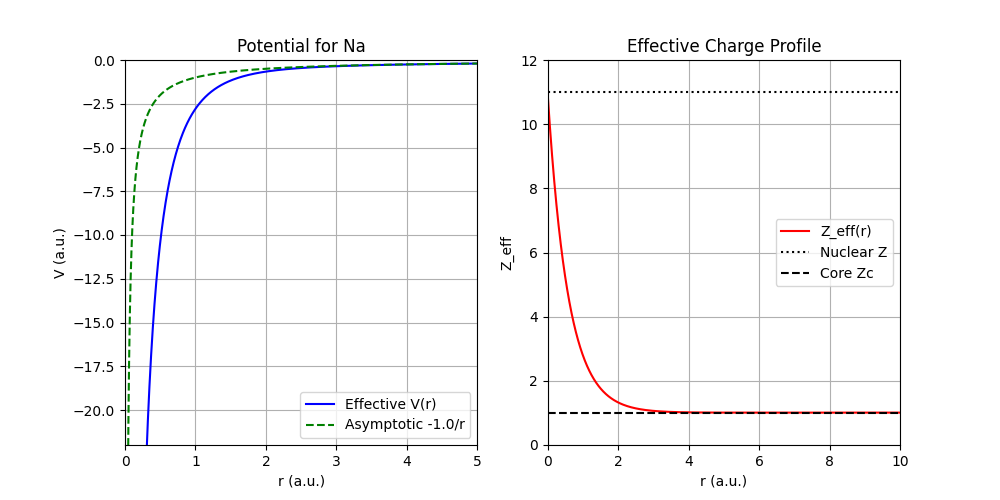
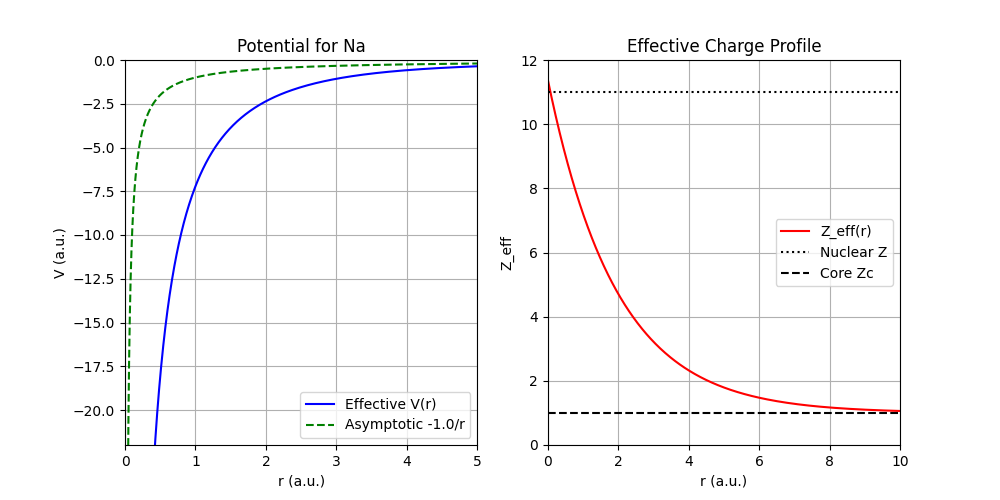
Edit_42

diff --git a/fit_potential.py b/fit_potential.py
@@ -66,20 +66,54 @@ def solve_binding_energy(a_params, Zc, n_target, l_target, grid):
     except Exception:
         return 10.0 # Interaction failure penalty
 
-def cost_function(a_params, Zc, n_target, l_target, target_E_au, grid):
+def cost_function(a_params, Zc, n_target, l_target, target_E_au, grid, Z_nuclear=None):
     """
-    Cost = |E_calc - E_target|
+    Cost = |E_calc - E_target| + physics penalties
     """
+    a1, a2, a3, a4, a5, a6 = a_params
+    
     # Enforce constraints via penalty
-    # Decay rates a2, a4, a6 must be positive > 0.1 to be physical
-    a2, a4, a6 = a_params[1], a_params[3], a_params[5]
-    if a2 < 0.1 or a4 < 0.1 or a6 < 0.1:
+    # Decay rates a2, a4, a6 must be positive > 0.01 to be physical
+    if a2 < 0.01 or a4 < 0.01 or a6 < 0.01:
         return 100.0 + abs(a2)+abs(a4)+abs(a6)
+    
+    # Physics constraint: Z_eff(0) = Zc + a1 + a5 should be close to Z_nuclear
+    if Z_nuclear is not None:
+        z_eff_0 = Zc + a1 + a5
+        if abs(z_eff_0 - Z_nuclear) > 1.0:
+            return 50.0 + abs(z_eff_0 - Z_nuclear)
 
     E_calc = solve_binding_energy(a_params, Zc, n_target, l_target, grid)
     
     diff = abs(E_calc - target_E_au)
     return diff
+
+
+def verify_fit(name, Z, Zc, n, l, ip_ev, a_params):
+    """
+    Verify the fitted parameters by computing bound state energy.
+    Returns (success, calculated_E_eV, expected_E_eV, diff_eV)
+    """
+    from grid import make_r_grid, au_to_ev
+    from potential_core import CorePotentialParams, V_core_on_grid
+    from bound_states import solve_bound_states
+    
+    grid = make_r_grid(r_min=1e-4, r_max=200.0, n_points=2000)
+    params = CorePotentialParams(Zc, *a_params)
+    V = V_core_on_grid(grid, params)
+    
+    states = solve_bound_states(grid, V, l=l, n_states_max=n+2)
+    target_n_idx = n - l
+    
+    for s in states:
+        if s.n_index == target_n_idx:
+            calc_E_eV = s.energy_au * 27.211386
+            expected_E_eV = -ip_ev
+            diff = abs(calc_E_eV - expected_E_eV)
+            success = diff < 0.1  # Within 0.1 eV is success
+            return success, calc_E_eV, expected_E_eV, diff
+    
+    return False, None, -ip_ev, None
 
 import json
 import os
@@ -269,13 +303,32 @@ def main():
             x0 = [Z-Zc, 0.8*Z, 0.0, 1.0, 0.0, 1.0]
 
         t0 = time.time()
-        res = scipy.optimize.minimize(
-            cost_function, 
-            x0, 
-            args=(Zc, n, l, target_E_au, grid),
-            method='Nelder-Mead',
-            options={'maxiter': 500, 'xatol': 1e-5}
-        )
+        
+        # Multi-start optimization for robustness
+        best_result = None
+        best_cost = float('inf')
+        
+        # Try multiple initial guesses
+        initial_guesses = [
+            x0,  # Default guess
+            [Z-Zc, Z*0.5, 0.0, 1.0, 0.0, 1.0],  # Alternative 1
+            [Z-Zc, Z, 0.001, 0.5, 0.001, 2.0],  # Alternative 2
+        ]
+        
+        for i, guess in enumerate(initial_guesses):
+            print(f"  Trying initial guess {i+1}/{len(initial_guesses)}...")
+            res = scipy.optimize.minimize(
+                cost_function, 
+                guess, 
+                args=(Zc, n, l, target_E_au, grid, Z),
+                method='Nelder-Mead',
+                options={'maxiter': 2000, 'xatol': 1e-6, 'fatol': 1e-8}
+            )
+            if res.fun < best_cost:
+                best_cost = res.fun
+                best_result = res
+        
+        res = best_result
         dt = time.time() - t0
         
         print(f"\nOptimization Finished in {dt:.2f}s.")
@@ -297,6 +350,33 @@ def main():
     print(f"\nCalculated Binding E = {E_final_eV:.4f} eV")
     print(f"Reference Binding E  = {E_exp_eV if E_exp_eV < 0 else -E_exp_eV:.4f} eV")
     print(f"Diff                 = {abs(abs(E_final_eV) - abs(E_exp_eV)):.4f} eV")
+    
+    # --- AUTOMATIC DIAGNOSTIC VERIFICATION ---
+    print("\n" + "="*50)
+    print("AUTOMATIC VERIFICATION")
+    print("="*50)
+    success, calc_E, exp_E, diff = verify_fit(name, Z, Zc, n, l, abs(E_exp_eV), best_params)
+    
+    if success:
+        print(f"[SUCCESS] Fitted parameters verified!")
+        print(f"  Calculated: {calc_E:.4f} eV")
+        print(f"  Expected:   {exp_E:.4f} eV")
+        print(f"  Difference: {diff:.4f} eV (< 0.1 eV threshold)")
+    else:
+        if diff is not None:
+            print(f"[WARNING] Fitting not fully successful!")
+            print(f"  Calculated: {calc_E:.4f} eV")
+            print(f"  Expected:   {exp_E:.4f} eV")
+            print(f"  Difference: {diff:.4f} eV (> 0.1 eV threshold)")
+            print("\n  Consider:")
+            print("  1. Running with more iterations (modify maxiter)")
+            print("  2. Trying different initial guesses")
+            print("  3. Checking if target state (n,l) is correct")
+        else:
+            print(f"[ERROR] Could not find target bound state!")
+            print(f"  Expected energy: {exp_E:.4f} eV")
+    print("="*50)
+
     
     # --- PHYSICALITY CHECK & PLOTTING ---
     try:

diff --git a/diag_atoms.py b/diag_atoms.py
@@ -1,0 +1,77 @@
+"""
+Quick diagnostic script to compare H and Li potential and bound states.
+"""
+import numpy as np
+from grid import make_r_grid
+from potential_core import V_core_on_grid
+from bound_states import solve_bound_states
+import atom_library
+
+def diagnose_atom(name: str):
+    print(f"\n{'='*50}")
+    print(f"DIAGNOSTICS: {name}")
+    print('='*50)
+    
+    atom = atom_library.get_atom(name)
+    print(f"Z={atom.Z}, Zc={atom.core_params.Zc}")
+    print(f"Target state: n={atom.default_n}, l={atom.default_l}")
+    print(f"IP (eV): {atom.ip_ev}")
+    
+    # Check a_params
+    p = atom.core_params
+    print(f"\nCore params: a1={p.a1:.4f}, a2={p.a2:.4f}, a3={p.a3:.4f}")
+    print(f"             a4={p.a4:.4f}, a5={p.a5:.4f}, a6={p.a6:.4f}")
+    
+    # Compute Z_eff at r=0
+    # S(0) = a1*exp(0) + a3*0*exp(0) + a5*exp(0) = a1 + a5
+    z_eff_0 = p.Zc + p.a1 + p.a5
+    print(f"\nZ_eff(r→0) ≈ {z_eff_0:.2f} (should be ~{atom.Z})")
+    print(f"Z_eff(r→∞) = Zc = {p.Zc}")
+    
+    # Create grid and potential
+    grid = make_r_grid(r_min=1e-4, r_max=200.0, n_points=2000)
+    V = V_core_on_grid(grid, p)
+    
+    # Check potential values
+    print(f"\nPotential check:")
+    print(f"  V(r=0.01) = {np.interp(0.01, grid.r, V):.4f} a.u.")
+    print(f"  V(r=1.0)  = {np.interp(1.0, grid.r, V):.4f} a.u.")
+    print(f"  V(r=10.0) = {np.interp(10.0, grid.r, V):.4f} a.u.")
+    
+    # Actual Z_eff = -r*V
+    r_test = grid.r[grid.r > 0.001]
+    V_test = V[grid.r > 0.001]
+    z_eff = -r_test * V_test
+    print(f"  Z_eff(r=0.01) = {np.interp(0.01, r_test, z_eff):.2f}")
+    print(f"  Z_eff(r=1.0)  = {np.interp(1.0, r_test, z_eff):.2f}")
+    print(f"  Z_eff(r=10.0) = {np.interp(10.0, r_test, z_eff):.2f}")
+    
+    # Solve bound states
+    l = atom.default_l
+    states = solve_bound_states(grid, V, l=l, n_states_max=5)
+    
+    print(f"\nBound states for l={l}:")
+    for s in states:
+        E_eV = s.energy_au * 27.211386
+        print(f"  n_index={s.n_index}: E = {E_eV:.4f} eV ({s.energy_au:.4f} a.u.)")
+    
+    # Expected valence state
+    target_n_idx = atom.default_n - atom.default_l
+    expected_E_eV = -atom.ip_ev
+    
+    for s in states:
+        if s.n_index == target_n_idx:
+            calc_E_eV = s.energy_au * 27.211386
+            diff = abs(calc_E_eV - expected_E_eV)
+            print(f"\n  Valence state (n_idx={target_n_idx}):")
+            print(f"    Calculated: {calc_E_eV:.4f} eV")
+            print(f"    Expected:   {expected_E_eV:.4f} eV")
+            print(f"    Diff:       {diff:.4f} eV")
+            break
+
+if __name__ == "__main__":
+    diagnose_atom("H")
+    diagnose_atom("Li")
+    diagnose_atom("Na")
+    print("\n" + "="*50)
+    print("DIAGNOSTIC COMPLETE")

diff --git a/DW_main.py b/DW_main.py
@@ -390,9 +390,18 @@ def run_scan_excitation(run_name):
     print_progress("Running pilot at 1000 eV...")
     pilot_E = 1000.0
     
-    t_type = "s-p"
-    if lf == 0:
-        t_type = "s-s"
+    # Transition type detection based on angular momentum change
+    # Article: s-s (Set 1) for l_i=0 → l_f=0, s-p (Set 2) for l_i=0 → l_f≠0
+    # Generalize: s-s if both s-orbitals, s-p otherwise
+    if li == 0 and lf == 0:
+        t_type = "s-s"  # s → s transition
+    elif li == 0 and lf > 0:
+        t_type = "s-p"  # s → p/d/f transition (dipole-like)
+    else:
+        # For non-s initial states (p→s, p→p, etc.), use s-p params as default
+        # Article only calibrated for s-initial but mentions this extends to other atoms
+        t_type = "s-p"
+    logger.debug(f"Transition type: {li}→{lf} mapped to '{t_type}'")
     
     # We need threshold energy to init model.
     # We can get it from a quick bound state check or run one calc.

diff --git a/distorting_potential.py b/distorting_potential.py
@@ -570,8 +570,6 @@ def build_distorting_potentials(
     V_H_i = hartree_potential_from_orbital(grid, orbital_initial)
     V_H_f = hartree_potential_from_orbital(grid, orbital_final)
 
-    V_H_f = hartree_potential_from_orbital(grid, orbital_final)
-
     # Distorting potentials
     if use_exchange:
         # Static + Exchange
